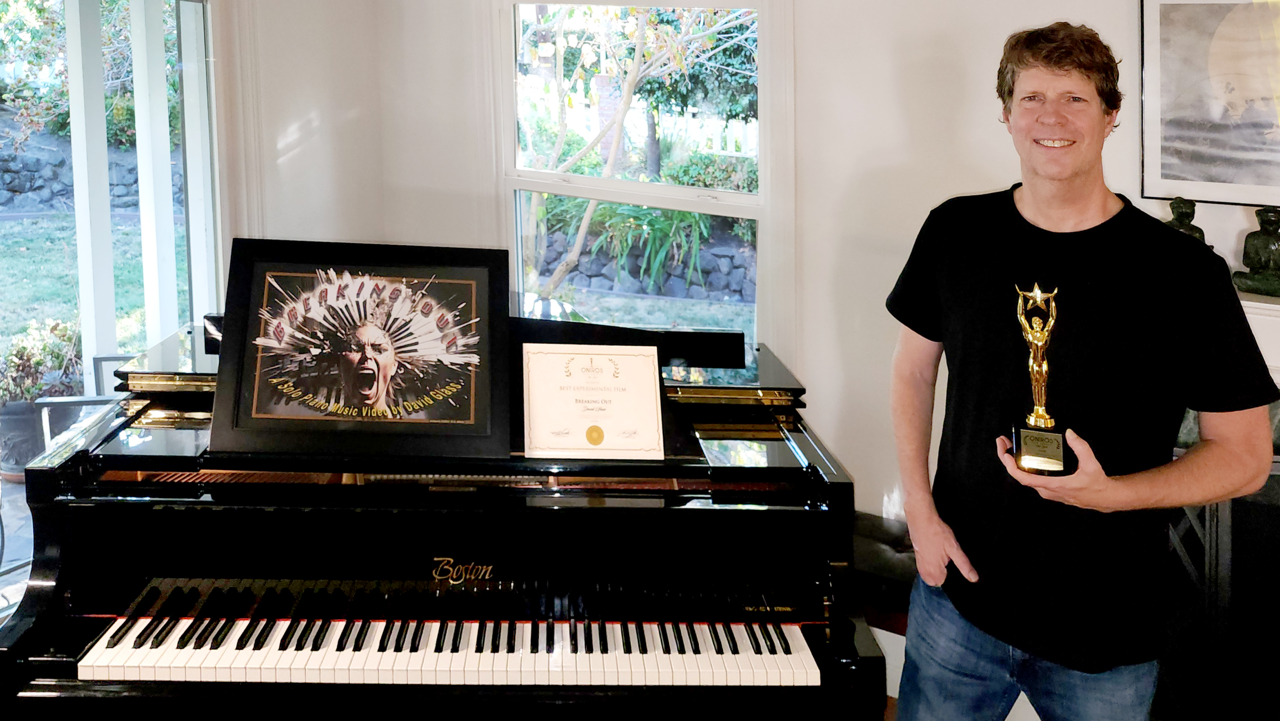
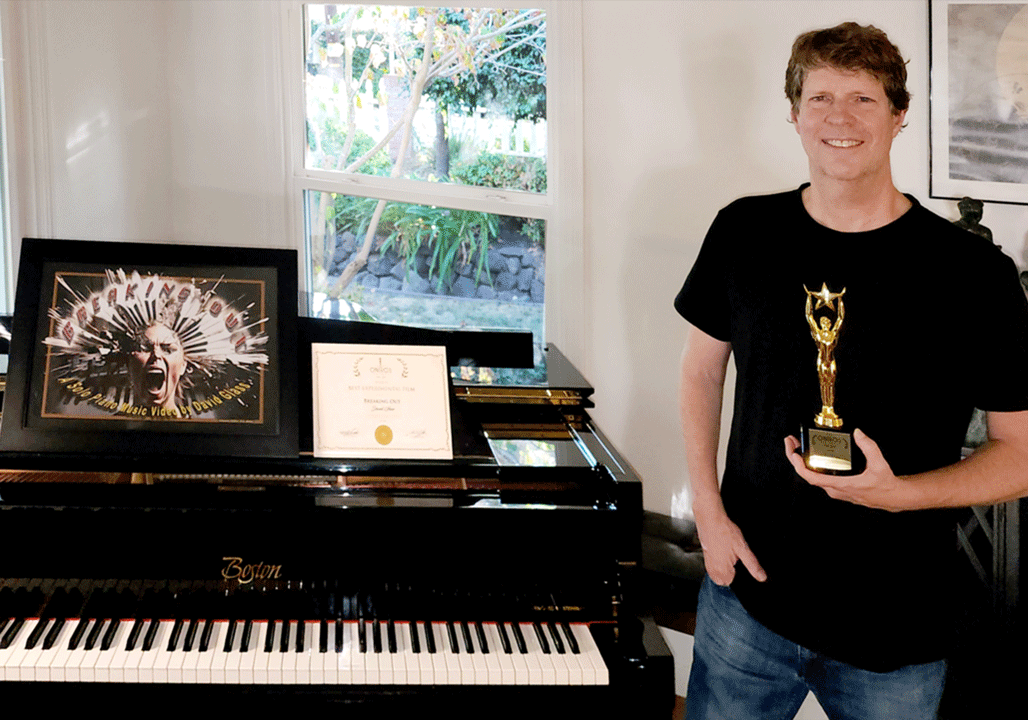
updates: about animation, video carousel, and contact bg

diff --git a/src/app/pages/video.tsx b/src/app/pages/video.tsx
@@ -14,7 +14,8 @@ export default function Video() {
       
         const images = [
           { src: "/imgs/breakingout_banner.png", alt: "Image of David Glass 1" },
-          { src: "/imgs/david_piano2.jpg", alt: "Image of David Glass 2" },
+          { src: "/imgs/david_trophy.png", alt: "Image of David Glass 2" },
+          { src: "/imgs/david_piano2.png", alt: "Image of David Glass 3" },
         ];
       
         const handleNext = () => {
@@ -30,7 +31,7 @@ export default function Video() {
     return (
         <div className="flex flex-col items-center bg-emerald-600 w-full pt-20 pb-20 bg-gradient-to-b from-zinc-600 to-zinc-400">
             <motion.div className="flex md:flex-row flex-col justify-between max-w-[1200px] w-11/12 h-500 border border-white-100 bg-zinc-800 shadow-2xl" initial={{ opacity: 0 }} whileInView={{ opacity: 1, transition: { duration: 2.0 } }}>
-                <FlexStack className="justify-center text-white border border-red-300 w-full">
+                <FlexStack className="justify-center text-white w-full">
                     <h1 className="text-2xl pt-5 px-10">Video</h1>
                     <h2 className="font-bold text-xl pt-5 px-10">Breaking Out</h2>
                     <p className="py-5 px-10">“Breaking Out” is a short music video produced by David Glass. 
@@ -50,7 +51,7 @@ export default function Video() {
                         className="rounded-md object-contain py-5 px-5 w-full"
                         priority // Improves LCP by preloading
                     /> 
-                    <div className="flex flex-row items-center justify-center text-white pb-5 gap-10">
+                    <div className="flex flex-row items-center justify-center text-white pb-3 gap-10">
                         <ChevronLeft className="h-8 w-8 cursor-pointer hover:text-gray-500" onClick={handlePrev} />
                         <ChevronRight className="h-8 w-8 cursor-pointer hover:text-gray-500" onClick={handleNext}/>
                     </div>

diff --git a/src/app/pages/about.tsx b/src/app/pages/about.tsx
@@ -21,7 +21,7 @@ export default function About() {
                 <div className="flex flex-col sm:text-left text-center">
                     <h1 className="text-2xl px-5">About</h1> 
                     <h2 className="font-bold text-xl px-5 pt-5">David Glass</h2> 
-                    <p className="px-5 py-5">Versatile in many forms of music making, David Glass has
+                    <motion.div className="px-5 py-5" initial={{ y: 100 }} whileInView={{ y: 0, transition: { duration: 1 } }}>Versatile in many forms of music making, David Glass has
                         performed regularly as a solo pianist. David has performed
                         throughout the USA and Europe.
                         David has released several recordings and singles throughout his
@@ -39,7 +39,7 @@ export default function About() {
                         the New England Conservatory of Music in Boston, CA.For the
                         past 30 years, David has been teaching piano privately in the
                         cities of Piedmont, Oakland and Berkeley.
-                    </p> 
+                    </motion.div> 
                 </div>
             </motion.div>
         </div>

diff --git a/src/app/pages/contact.tsx b/src/app/pages/contact.tsx
@@ -5,7 +5,7 @@ import FlexStack from "@/components/custom/layout/flex-stack";
 // CONTACT
 export default function Contact() {
     return (
-        <div className="flex flex-col items-center bg-gradient-to-b from-zinc-200 to-zinc-50 w-full h-[800px]">
+        <div className="flex flex-col items-center bg-gradient-to-b from-zinc-200 to-zinc-50 w-full h-[800px]" style={{  backgroundImage: `linear-gradient(to bottom, #e4e4e7 0%, rgba(228, 228, 231, 0.7) 40%, rgba(228, 228, 231, 0) 60%), url('/imgs/contact_bg.png')`, backgroundSize: "cover", backgroundRepeat: "no-repeat"}}>
             <h1 className="text-center text-white text-3xl mt-10 mb-10">CONTACT</h1>
             <Box className="max-w-sm bg-gray-500 bg-opacity-90 p-8 shadow-lg w-96">
                 <FlexStack>

diff --git a/src/app/page.tsx b/src/app/page.tsx
@@ -24,7 +24,7 @@ export default function Home() {
         <Marquee /> 
         <About />
         <Video />
-        {/* <Music />  */}
+        <Music /> 
         <Contact />
         <Footer />
       </div>
